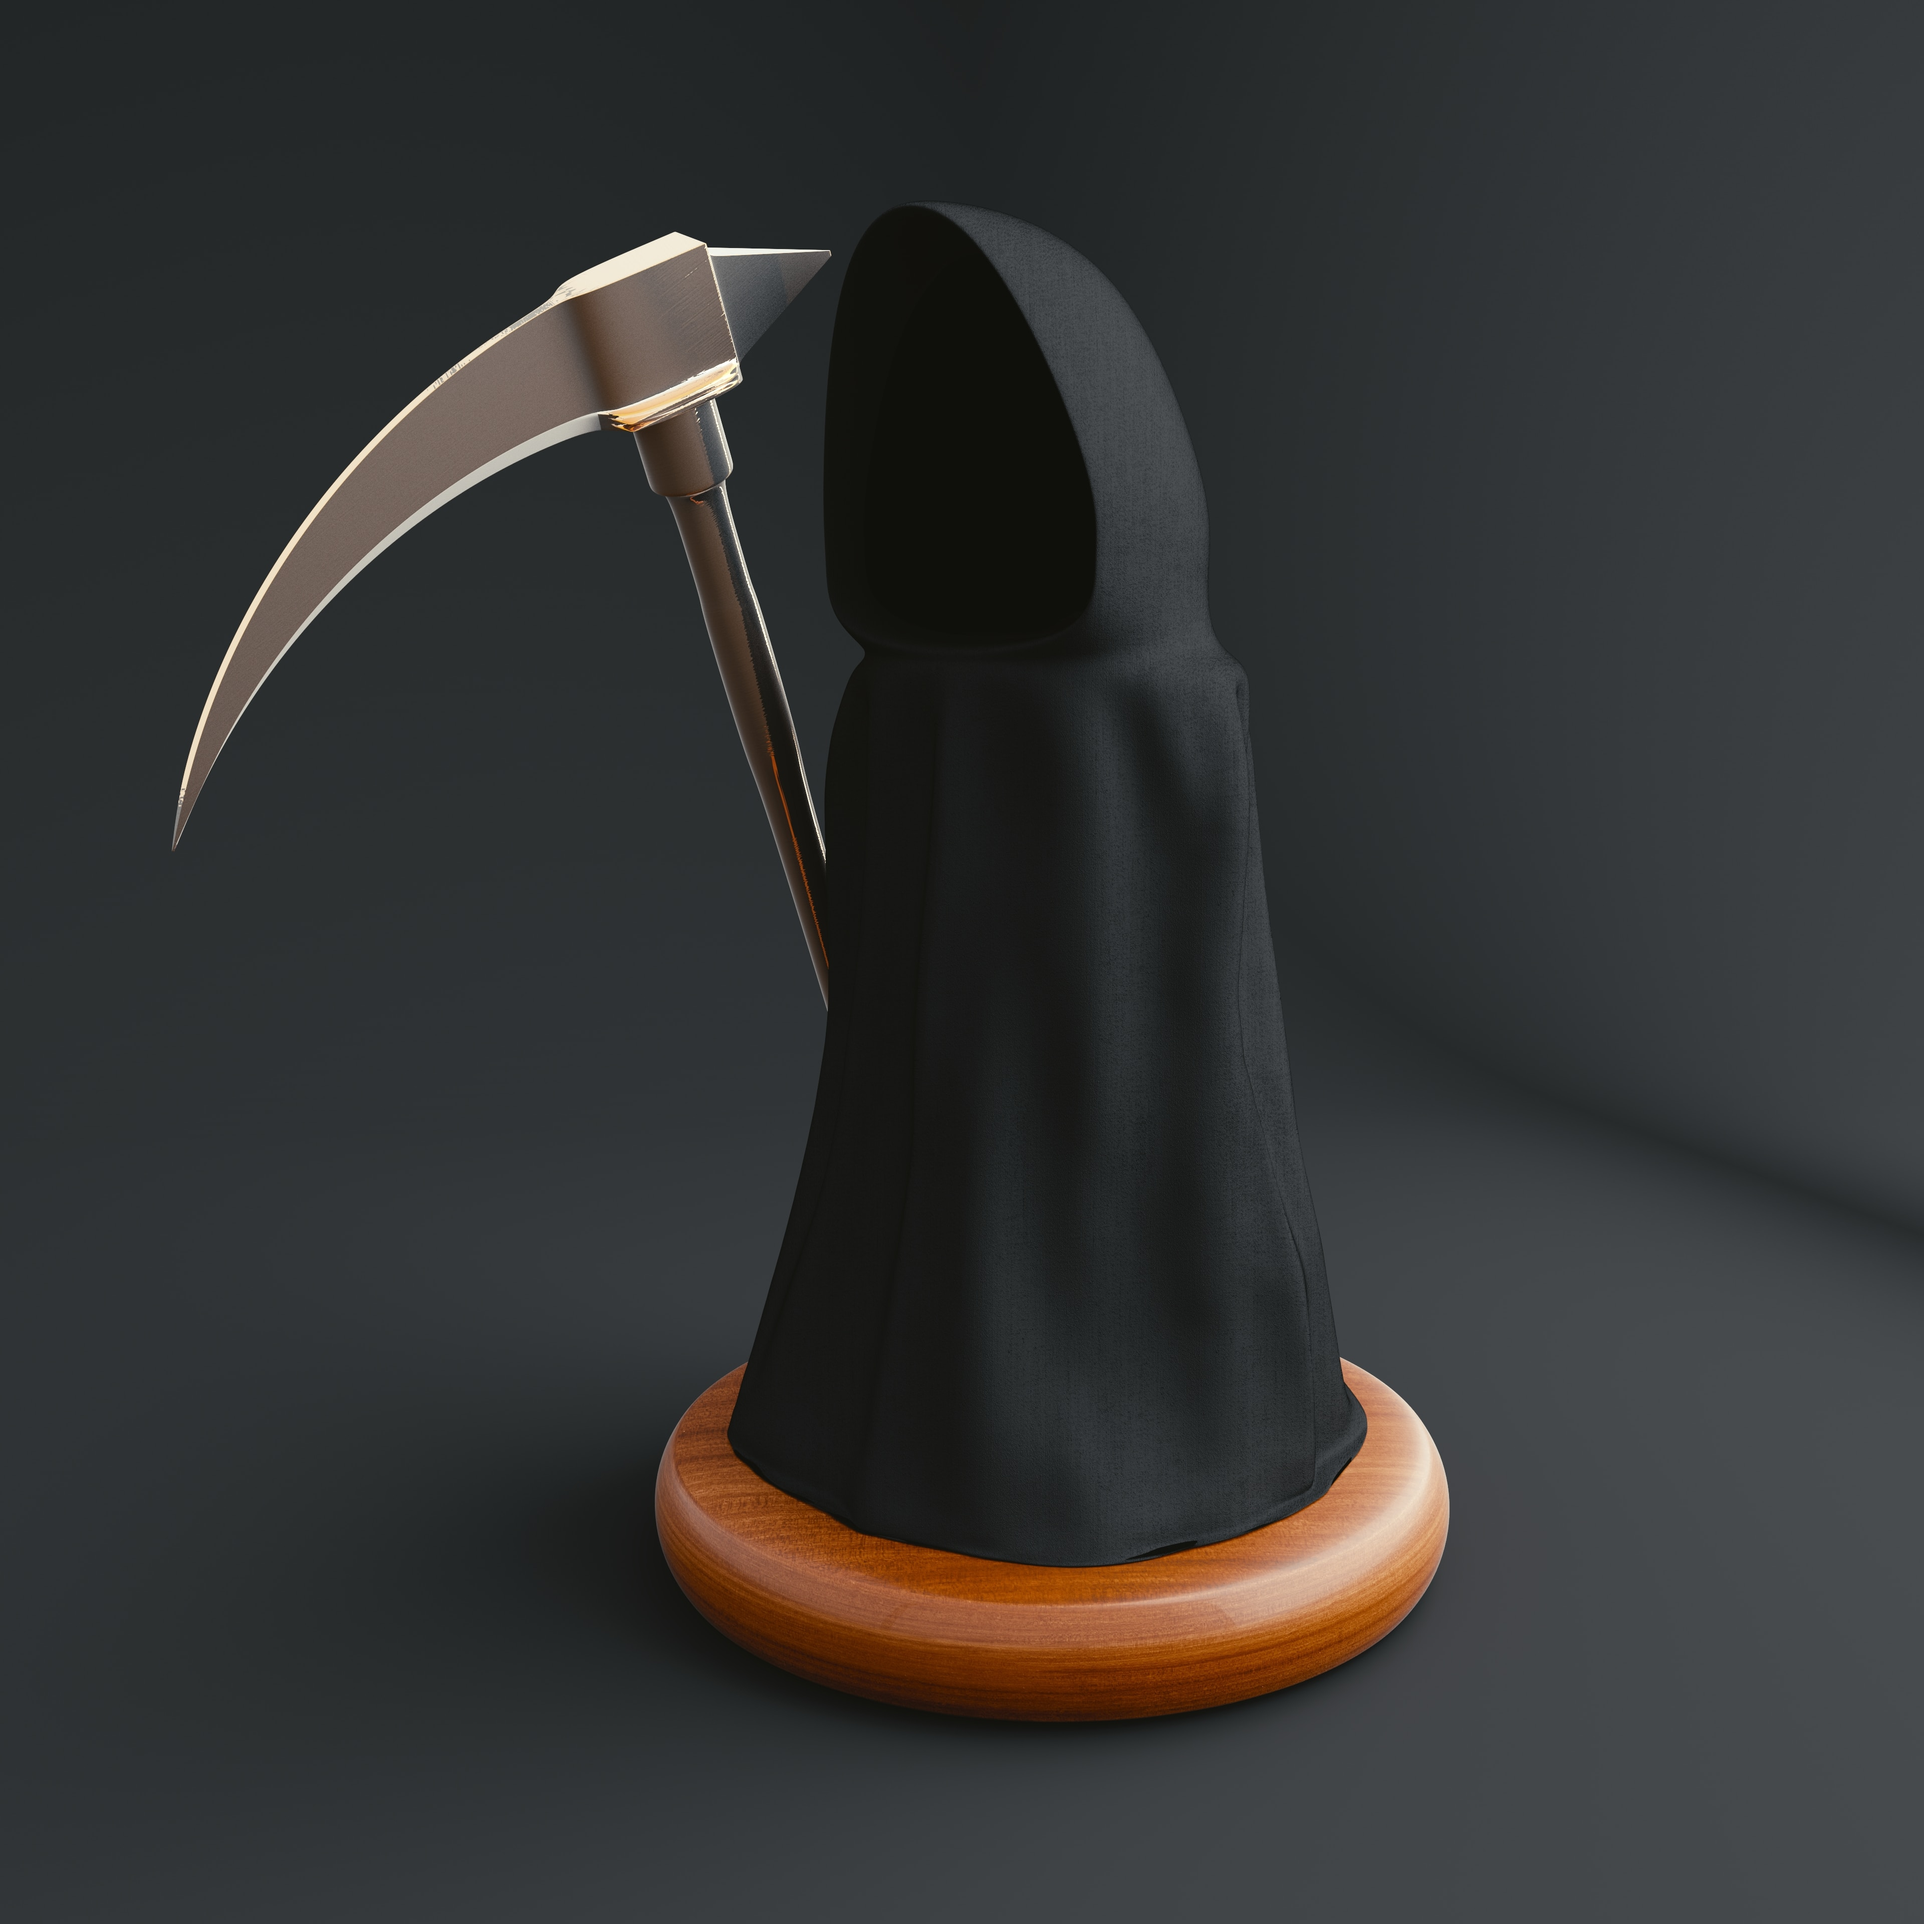
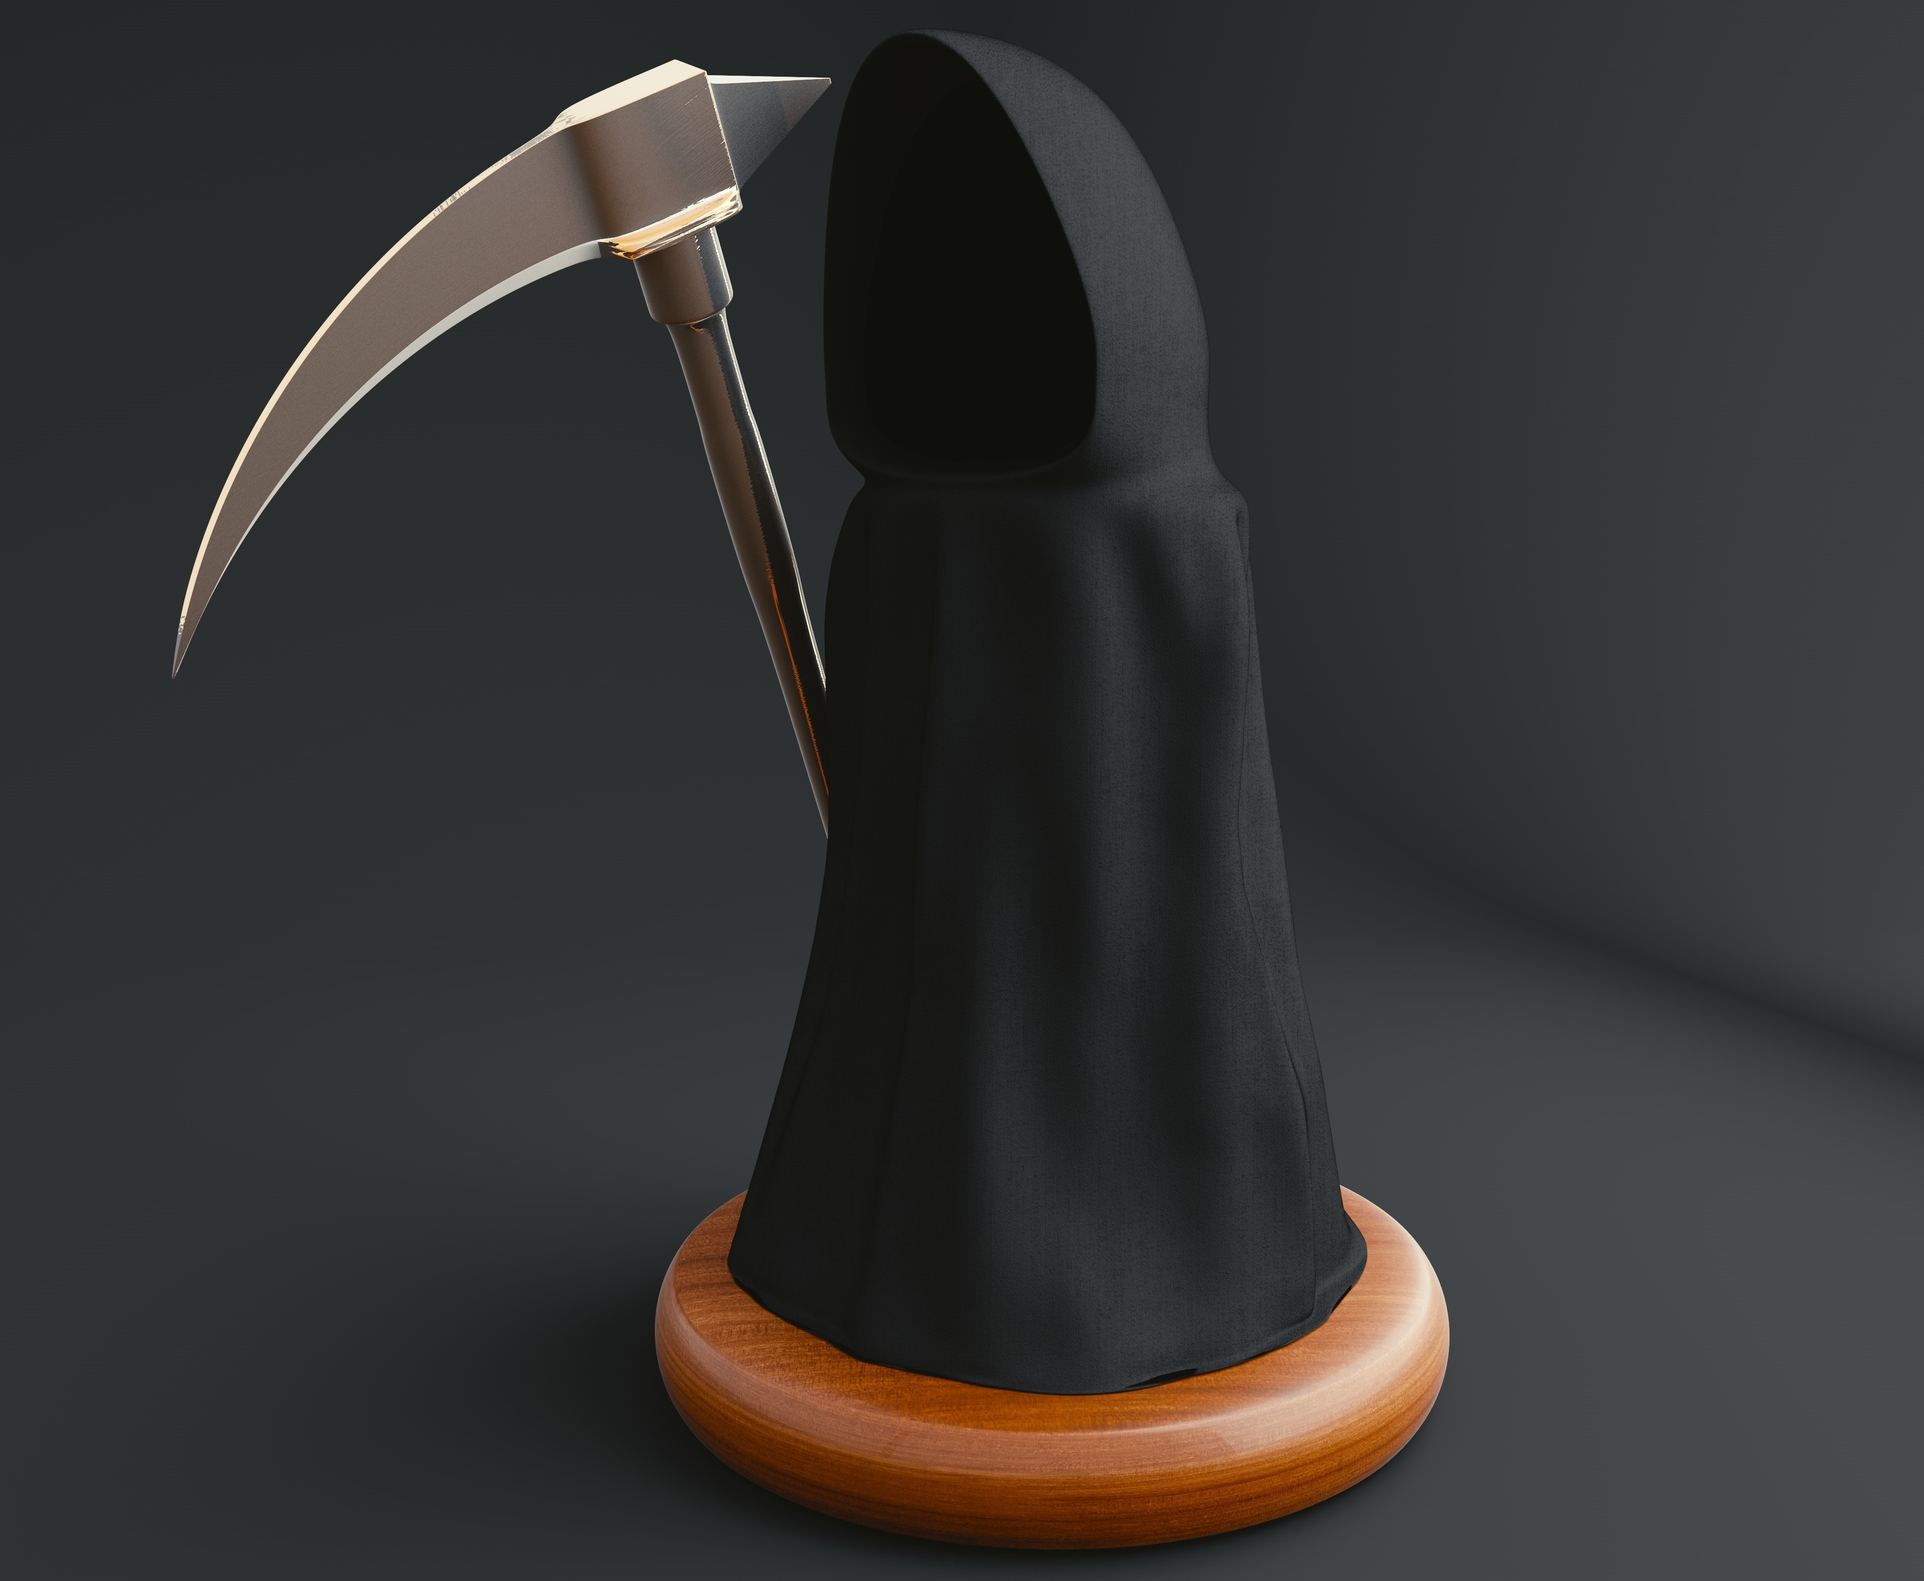
updated idiom background to white

diff --git a/index.html b/index.html
@@ -37,7 +37,7 @@
     <!-- Main Cover -->
     <div class="cover" id="home">
       <div class="image-container">
-        <img src="components/cover.jpg" style="width:100%; height: 480px" alt="WORLD DEATH RATE IN 2019">
+        <img src="components/cover_wide_1.jpg" style="width:100%; height: 600px" alt="WORLD DEATH RATE IN 2019">
       </div>
       <div class="overlay-text">
         <h1 class="main-title">GLOBAL DEATH RATE IN 2019</h1>
